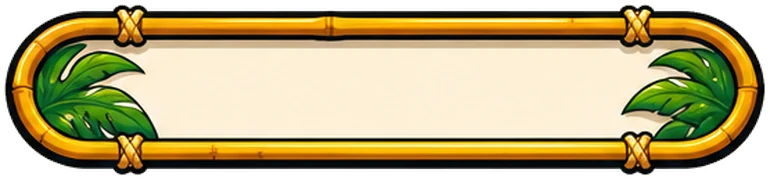
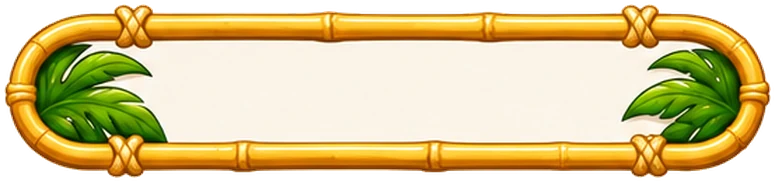
Tropical v2 : un seul rail et un seul bouton, bulle toujours plus grosse que sa case comme la Base (lf-345)
Claude-Session: https://claude.ai/code/session_01Agff8va3qxXu2Vw43sb54j

diff --git a/index.html b/index.html
@@ -3563,7 +3563,7 @@ html body #hist #hBody .h2last small{font:400 11px "Lbl",sans-serif;color:var(--
 /* ===== habillage « Tropical » (Cricket 1 contre 1 ; clé interne « casino ») : images dessinées par Loubi, découpées depuis sa planche ; « Base » = rendu normal ===== */
 html body.skin-casino #game#game#game#game.p2 .sc.act{background:transparent!important;box-shadow:none!important}
 html body.skin-casino #game#game#game#game.p2 .sc.act::after{opacity:0!important}
-html body.skin-casino #game#game#game#game.p2 .sc.act::before{content:'';position:absolute;inset:-8.5px -8.5px -8.5px -8.5px;background:url(skins/casino/carte.webp) 0 0/100% 100% no-repeat;z-index:-1;pointer-events:none}
+html body.skin-casino #game#game#game#game.p2 .sc.act::before{content:'';position:absolute;inset:-9.6px -9.6px -9.6px -9.6px;background:url(skins/casino/carte.webp) 0 0/100% 100% no-repeat;z-index:-1;pointer-events:none}
 html body.skin-casino #game#game#game#game.p2 .sc .pill:not(.undo){background:transparent 0 0/100% 100% no-repeat!important;box-shadow:none!important;opacity:1!important;border-color:transparent!important;position:relative;isolation:isolate}
 html body.skin-casino #game#game#game#game.p2 .sc .pill:not(.undo)::before{content:'';position:absolute;inset:-3px -5px;background:inherit;background-size:100% 100%!important;z-index:-1;pointer-events:none}
 html body.skin-casino #game#game#game#game.p2 .sc:not(.act) .pill:not(.undo)::before{inset:-2px -3px}
@@ -3577,13 +3577,13 @@ html body.skin-casino #game#game#game#game.p2 .sc:not(.act) .pill.d{background-i
 html body.skin-casino #game#game#game#game.p2 .sc:not(.act) .pill.t{background-image:url(skins/casino/pa_t.webp)!important}
 html body.skin-casino #game#game#game#game.p2 .sc:not(.act) .pill.e,html body.skin-casino #game#game#game#game.p2 .sc:not(.act) .pill.z{background-image:url(skins/casino/pa_z.webp)!important}
 html body.skin-casino #game#game#game#game.p2 .rtrackb{border-color:transparent!important;background:none!important;z-index:0!important}
-html body.skin-casino #game#game#game#game.p2 .rtrackb::before{content:'';position:absolute;inset:-3.7px -4.6px -3.7px -4.2px;background:url(skins/casino/rail.webp) 0 0/100% 100% no-repeat;pointer-events:none}
+html body.skin-casino #game#game#game#game.p2 .rtrackb::before{content:'';position:absolute;inset:-4.2px -5.1px -3.7px -5.1px;background:url(skins/casino/rail.webp) 0 0/100% 100% no-repeat;pointer-events:none}
 html body.skin-casino #game#game#game#game.p2 #grid .num{background:transparent!important;box-shadow:none!important}
-html body.skin-casino #game#game#game#game.p2 #grid .num::before{content:'';position:absolute;inset:-5px -6px;background:url(skins/casino/num.webp) 0 0/100% 100% no-repeat;z-index:-1;pointer-events:none}
+html body.skin-casino #game#game#game#game.p2 #grid .num::before{content:'';position:absolute;inset:-7.1px -10.1px -7.1px -10.1px;background:url(skins/casino/num.webp) 0 0/100% 100% no-repeat;z-index:-1;pointer-events:none}
 html body.skin-casino #game#game#game#game.p2 #grid .num.dead::before{background-image:url(skins/casino/num_mort.webp)}
-html body.skin-casino #game#game#game#game.p2 footer::after{border-color:transparent!important;background:url(skins/casino/barre.webp) 0 0/100% 100% no-repeat!important;z-index:0!important;inset:-3.5px -4.8px -3.1px -4.4px!important}
+html body.skin-casino #game#game#game#game.p2 footer::after{border-color:transparent!important;background:url(skins/casino/barre.webp) 0 0/100% 100% no-repeat!important;z-index:0!important;inset:-5.1px -6.2px -4.5px -6.2px!important}
 html body.skin-casino #game#game#game#game.p2 .fthumb{background:transparent!important;box-shadow:none!important}
-html body.skin-casino #game#game#game#game.p2 .fthumb::before{content:'';position:absolute;inset:-4.8px;background:url(skins/casino/curseur.webp) 0 0/100% 100% no-repeat;pointer-events:none}
+html body.skin-casino #game#game#game#game.p2 .fthumb::before{content:'';position:absolute;inset:-7.7px -11.2px -7.7px -11.2px;background:url(skins/casino/curseur.webp) 0 0/100% 100% no-repeat;pointer-events:none}
 html body.skin-casino #game#game#game#game.p2 .mw{position:relative;isolation:isolate}
 html body.skin-casino #game#game#game#game.p2 .mw .disc{opacity:0!important}
 html body.skin-casino #game#game#game#game.p2 .mw.k3::before{content:'';position:absolute;left:21%;top:21%;width:58%;height:58%;background:url(skins/casino/disque.webp) center/contain no-repeat;z-index:-1;animation:skpop .28s cubic-bezier(.3,1.6,.5,1)}
@@ -7101,7 +7101,7 @@ $('grid').addEventListener('click',e=>{if(!BARC)return;e.stopImmediatePropagatio
 /* ===== thème : 3 réglages de couleur (fond, contours et textes, bulles) ===== */
 /* thème unique (Bulle d'origine) : on efface les anciens réglages de couleurs et de style */
 if(S.th||S.style||S.pfT||S.pfN||S.pst){['th','style','pfT','pfN','pst'].forEach(k=>delete S[k]);try{store.set(K_S,S)}catch(e){}}
-const APPV='lf-344';   // à changer avec VERSION dans sw.js
+const APPV='lf-345';   // à changer avec VERSION dans sw.js
 ['--m-bg','--m-card','--m-line','--m-strongtx','--btx','--accent','--acc-rgb','--m-home','--ui-bg','--page','--m-cell','--ink','--m-ink','--m-strong','--mute','--m-sub'].forEach(k=>document.documentElement.style.removeProperty(k));
 try{colApply()}catch(e){}   // couleurs choisies : rétablies à chaque ouverture
 $('skinT').addEventListener('click',e=>{e.stopPropagation();haptic();SFX.ui();

diff --git a/sw.js b/sw.js
@@ -1,7 +1,7 @@
 /* Loubard Fléchard — hors ligne + mises à jour automatiques.
    Page : réseau d'abord (version la plus récente), cache si pas de réseau.
    Change VERSION à chaque mise à jour publiée. */
-const VERSION='lf-344';
+const VERSION='lf-345';
 const FILES=['./','index.html','sync.js','scenes.js','manifest.json','art/lexend.woff','art/ui-300.woff','art/ui-600.woff','art/ui-750.woff','art/ui-900.woff','art/fun.woff','art/funl.woff','art/funtxt.woff','art/lbl.woff','icon-180.png','icon-192.png','icon-512.png','skins/casino/accueil.webp','skins/casino/annuler.webp','skins/casino/barre.webp','skins/casino/carte.webp','skins/casino/couronne.webp','skins/casino/curseur.webp','skins/casino/disque.webp','skins/casino/num.webp','skins/casino/num_mort.webp','skins/casino/p_d.webp','skins/casino/p_e.webp','skins/casino/p_s.webp','skins/casino/p_t.webp','skins/casino/p_z.webp','skins/casino/pa.webp','skins/casino/pa_d.webp','skins/casino/pa_t.webp','skins/casino/pa_z.webp','skins/casino/rail.webp','skins/casino/trait1.webp','skins/casino/trait2.webp'];
 self.addEventListener('install',e=>{e.waitUntil(caches.open(VERSION)
   .then(c=>Promise.all(FILES.map(f=>fetch(f,{cache:'reload'}).then(r=>r.ok&&c.put(f,r)).catch(()=>{}))))
